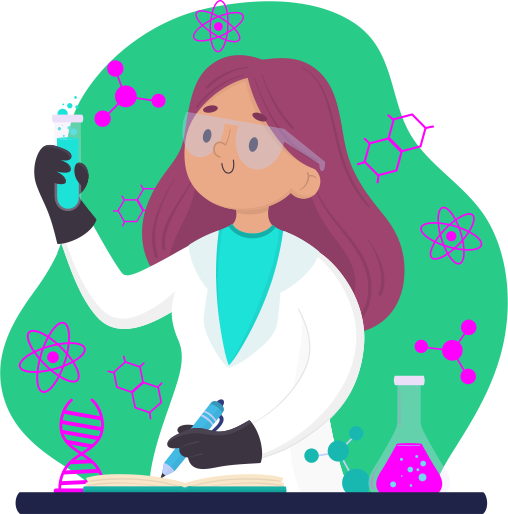
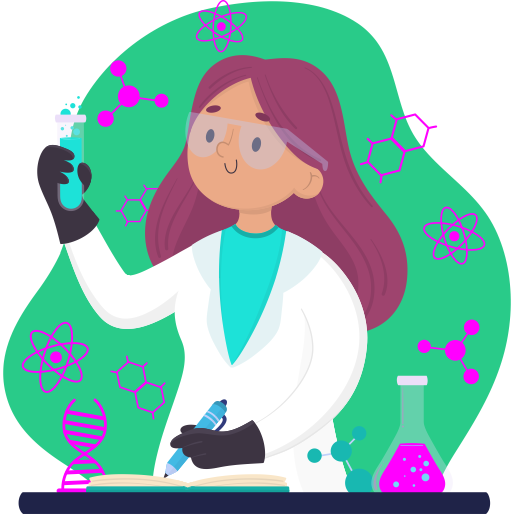
Main terminado

diff --git a/style.css b/style.css
@@ -74,5 +74,98 @@ body {
 
 /* MAIN  */
 
+main {
+    padding: 1rem;
+    background: linear-gradient(#e6648f, #7619e0);
+    display: flex;
+    flex-direction: column;
+    align-items: center;
+}
 
+.objetivo {
+    display: flex;
+    flex-direction: column;
+    align-items: center;
+}
 
+.objetivo__container {
+    display: flex;
+    flex-direction: column;
+    align-items: center;
+}
+
+.objetivo__container h2 {
+    font-family: 'Mukta', sans-serif;
+    font-weight: 700;
+    font-size: calc(3rem + 1.5vw);
+    text-align: center;
+    line-height: 1;
+    padding: 1rem;
+    color: white;
+}
+
+.objetivo__container p {
+    font-family: 'Mukta', sans-serif;
+    font-weight: 400;
+    font-size: calc(1rem + .5vw);
+    text-align: center;
+    line-height: 1.7;
+    padding: 1rem;
+    color: white;
+}
+
+.objetivo img {
+    width: 90%;
+    padding: 1rem;
+}
+
+.entra-descarga {
+    color: #44145C;
+    background-color: #29CB89;
+    border: 1px solid #29CB89;
+    padding: .2rem .5rem;
+    border-radius: .5rem;
+    margin: 1rem 0px;
+    text-decoration: none;
+    font-family: 'Mukta', sans-serif;
+    font-weight: 400;
+    font-size: calc(1rem + .5vw);
+    text-align: center;
+}
+
+.entra-descarga:hover {
+    color: #29CB89;
+    background-color: #44145C;
+    border: 1px solid #29CB89;
+}
+
+@media (min-width: 768px) {
+    .objetivo__container p {
+        padding: 1.5rem 4rem;
+    }
+    .objetivo img {
+        width: 60%;
+    }
+}
+
+@media (min-width: 1280px) {
+    .objetivo {
+        flex-direction: row;
+        align-items: center;
+        justify-content: space-around;
+    }
+    .objetivo__container {
+        width: 50%;
+        align-items: flex-start;
+        padding: 2rem;
+    }
+    .objetivo__container h2,
+    .objetivo__container p {
+        text-align: left;
+        padding: 1rem 0rem;
+    }
+    .objetivo img {
+        width: 25%;
+        height: auto;
+    }
+}

diff --git a/index.html b/index.html
@@ -17,14 +17,14 @@
             <h1>Learn Chemestry</h1>
         </div>
         <nav class="registro">
-            <a href="#">Entrar</a>
+            <a href="#">Entra</a>
             <a href="#">Registrate</a>
         </nav>
     </header>
 
     <main>
         <section class="objetivo">
-            <div>
+            <div class="objetivo__container">
                 <h2>Hackea con Química</h2>
                 <p>
                     Objetivo: Lorem ipsum dolor sit amet consectetur adipisicing elit. Molestiae adipisci quasi nobis
@@ -34,18 +34,20 @@
             </div>
             <img src="img/chica_quimica.png" alt="Chica aprendiendo química">
         </section>
-        <a href="#">Entra para descargar la aplicación o usar online</a>
+        <a class="entra-descarga" href="#">Descargar la aplicación o úsala en línea</a>
     </main>
+
+
     <section class="about">
-      <div>
-        <h3>Sobre el proyecto</h3>
-        <p>
-            Lorem ipsum dolor sit amet consectetur adipisicing elit. Nisi ratione velit aliquam, maxime sit obcaecati
-            voluptatibus ipsam, aut asperiores iste magnam repellendus. Quasi distinctio at quam temporibus veniam vero
-            quibusdam.
-        </p>
-      </div>
-      <img src="img/drugs-2991157_1920.png" alt="Fórmula estructural">
+        <img src="img/drugs-2991157_1920.png" alt="Fórmula estructural">
+        <div>
+            <h3>Sobre el proyecto</h3>
+            <p>
+                Lorem ipsum dolor sit amet consectetur adipisicing elit. Nisi ratione velit aliquam, maxime sit obcaecati
+                voluptatibus ipsam, aut asperiores iste magnam repellendus. Quasi distinctio at quam temporibus veniam vero
+                quibusdam.
+            </p>
+        </div>
     </section>
 
     <footer>
